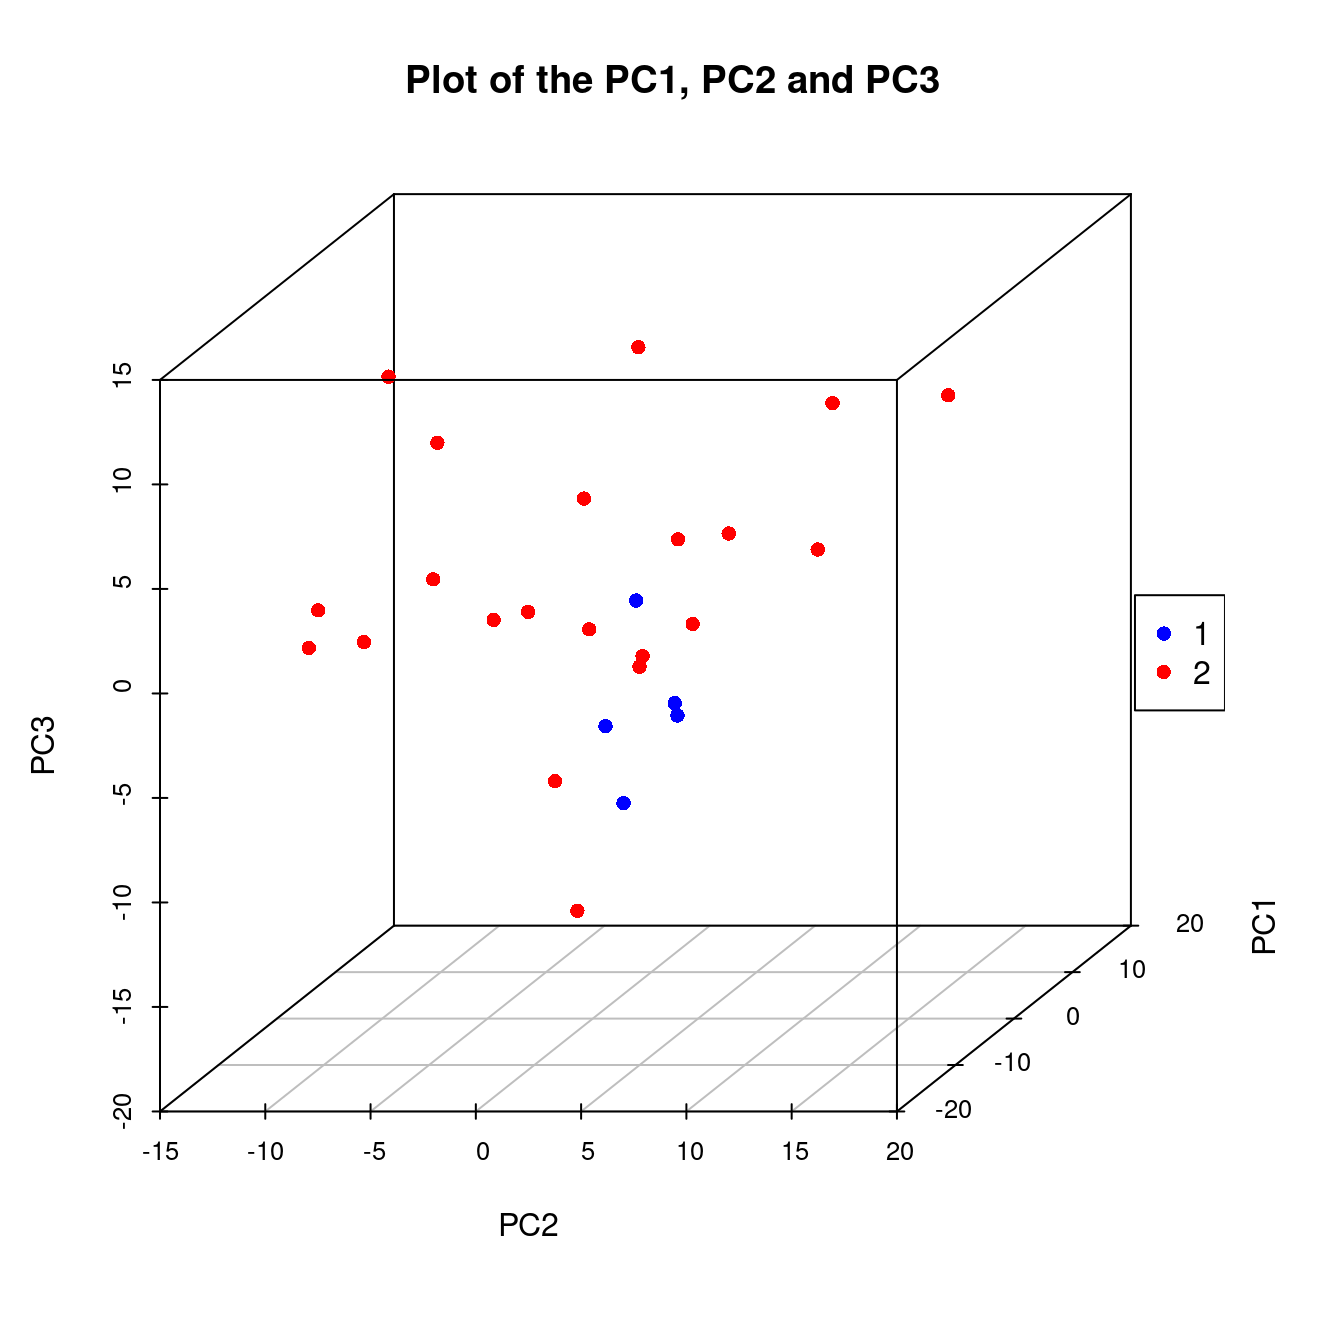
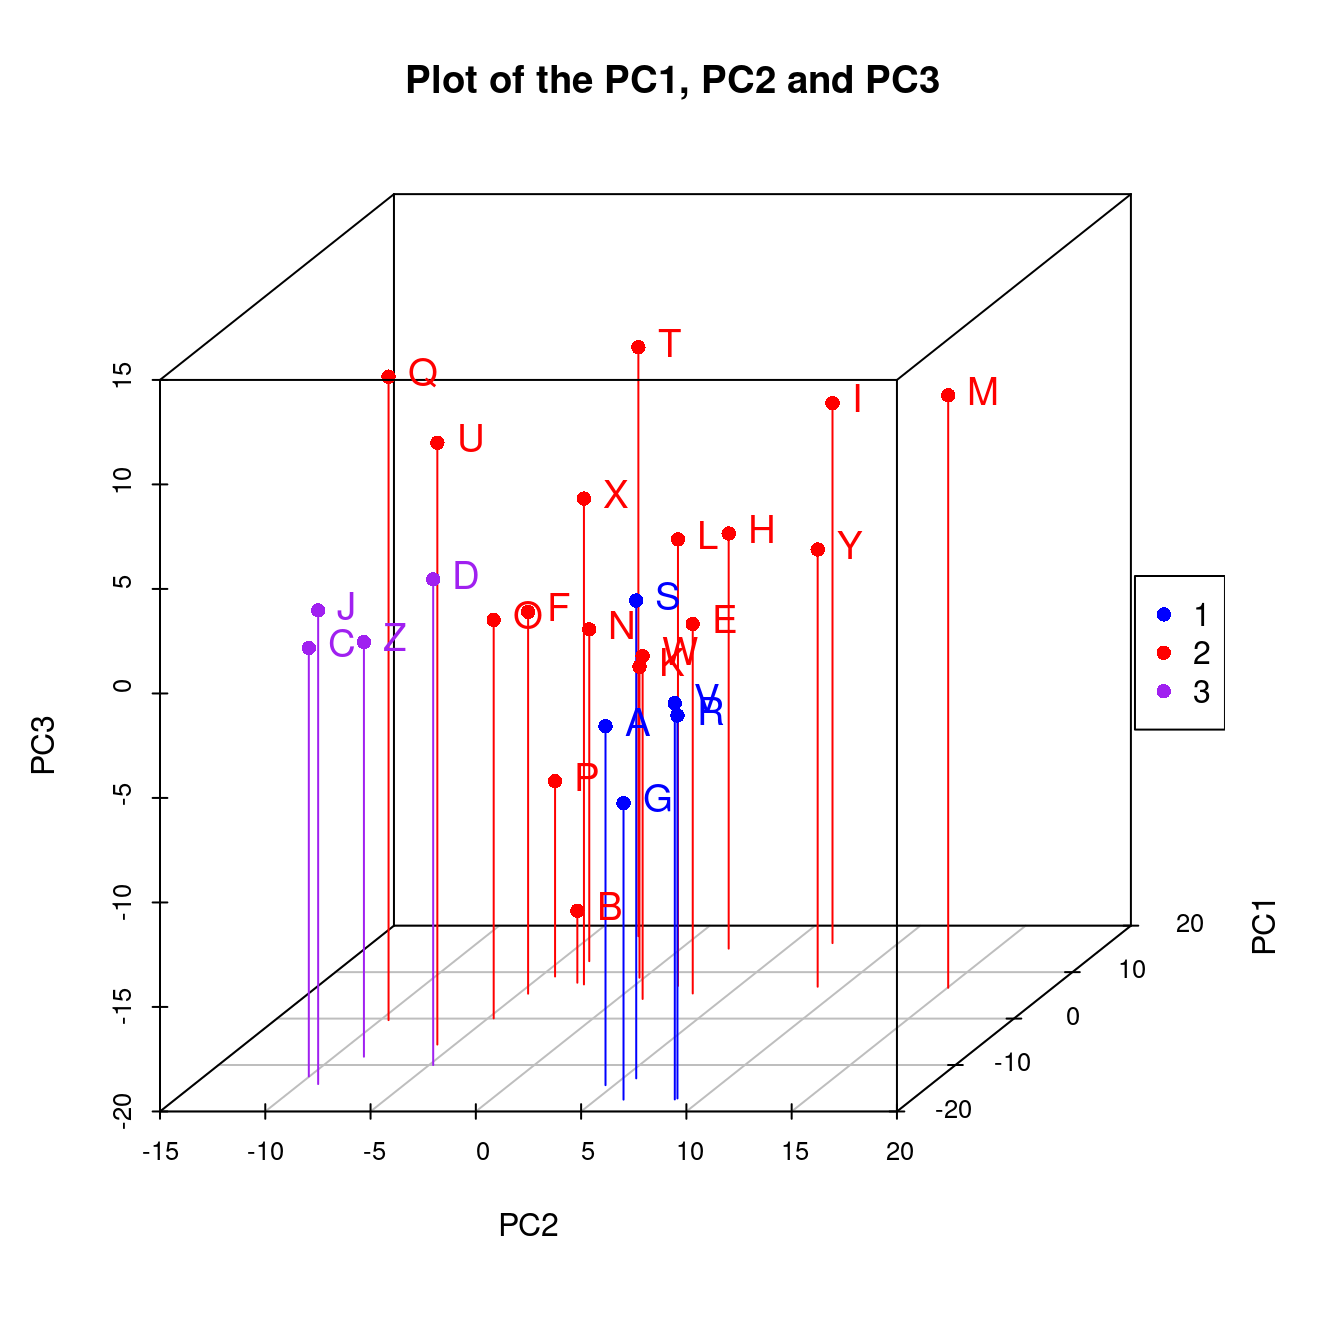
docs

diff --git a/docs/articles/es.html b/docs/articles/es.html
@@ -139,7 +139,7 @@
     
     
 <div class="sourceCode" id="cb1"><pre class="downlit sourceCode r">
-<code class="sourceCode R"><span><span class="va">pkgs</span> <span class="op">&lt;-</span> <span class="fu"><a href="https://rdrr.io/r/base/c.html" class="external-link">c</a></span><span class="op">(</span><span class="st">"Biobase"</span>, <span class="st">"arrayQualityMetrics"</span>, <span class="st">"dplyr"</span>, <span class="st">"knitr"</span>, <span class="st">"pQTLtools"</span>, <span class="st">"rgl"</span>, <span class="st">"scatterplot3d"</span><span class="op">)</span></span>
+<code class="sourceCode R"><span><span class="va">pkgs</span> <span class="op">&lt;-</span> <span class="fu"><a href="https://rdrr.io/r/base/c.html" class="external-link">c</a></span><span class="op">(</span><span class="st">"Biobase"</span>, <span class="st">"arrayQualityMetrics"</span>, <span class="st">"dplyr"</span>, <span class="st">"knitr"</span>, <span class="st">"mclust"</span>, <span class="st">"pQTLtools"</span>, <span class="st">"rgl"</span>, <span class="st">"scatterplot3d"</span><span class="op">)</span></span>
 <span><span class="kw">for</span> <span class="op">(</span><span class="va">p</span> <span class="kw">in</span> <span class="va">pkgs</span><span class="op">)</span> <span class="kw">if</span> <span class="op">(</span><span class="fu"><a href="https://rdrr.io/r/base/length.html" class="external-link">length</a></span><span class="op">(</span><span class="fu"><a href="https://rdrr.io/r/base/grep.html" class="external-link">grep</a></span><span class="op">(</span><span class="fu"><a href="https://rdrr.io/r/base/paste.html" class="external-link">paste</a></span><span class="op">(</span><span class="st">"^package:"</span>, <span class="va">p</span>, <span class="st">"$"</span>, sep<span class="op">=</span><span class="st">""</span><span class="op">)</span>, <span class="fu"><a href="https://rdrr.io/r/base/search.html" class="external-link">search</a></span><span class="op">(</span><span class="op">)</span><span class="op">)</span><span class="op">)</span> <span class="op">==</span> <span class="fl">0</span><span class="op">)</span> <span class="op">{</span></span>
 <span>    <span class="kw">if</span> <span class="op">(</span><span class="op">!</span><span class="fu"><a href="https://rdrr.io/r/base/ns-load.html" class="external-link">requireNamespace</a></span><span class="op">(</span><span class="va">p</span><span class="op">)</span><span class="op">)</span> <span class="kw"><a href="https://rdrr.io/r/base/warning.html" class="external-link">warning</a></span><span class="op">(</span><span class="fu"><a href="https://rdrr.io/r/base/paste.html" class="external-link">paste0</a></span><span class="op">(</span><span class="st">"This vignette needs package `"</span>, <span class="va">p</span>, <span class="st">"'; please install"</span><span class="op">)</span><span class="op">)</span></span>
 <span><span class="op">}</span></span>
@@ -233,27 +233,38 @@ where the expression set is indexed using feature name(s).</p>
 <div class="sourceCode" id="cb7"><pre class="downlit sourceCode r">
 <code class="sourceCode R"><span>  <span class="va">pca</span> <span class="op">&lt;-</span> <span class="fu"><a href="https://rdrr.io/r/stats/prcomp.html" class="external-link">prcomp</a></span><span class="op">(</span><span class="fu"><a href="https://rdrr.io/r/stats/na.fail.html" class="external-link">na.omit</a></span><span class="op">(</span><span class="fu"><a href="https://rdrr.io/r/base/t.html" class="external-link">t</a></span><span class="op">(</span><span class="fu">exprs</span><span class="op">(</span><span class="va">exampleSet</span><span class="op">)</span><span class="op">)</span><span class="op">)</span>, rank<span class="op">=</span><span class="fl">10</span>, scale<span class="op">=</span><span class="cn">TRUE</span><span class="op">)</span></span>
 <span>  <span class="va">pc1pc2pc3</span> <span class="op">&lt;-</span> <span class="fu"><a href="https://rdrr.io/r/base/with.html" class="external-link">with</a></span><span class="op">(</span><span class="va">pca</span>,<span class="va">x</span><span class="op">)</span><span class="op">[</span>,<span class="fl">1</span><span class="op">:</span><span class="fl">3</span><span class="op">]</span></span>
-<span>  <span class="kw"><a href="https://rdrr.io/r/base/library.html" class="external-link">library</a></span><span class="op">(</span><span class="va"><a href="https://mclust-org.github.io/mclust/" class="external-link">mclust</a></span><span class="op">)</span></span>
-<span><span class="co">#&gt; Package 'mclust' version 6.1</span></span>
-<span><span class="co">#&gt; Type 'citation("mclust")' for citing this R package in publications.</span></span>
-<span>  <span class="va">mc</span> <span class="op">&lt;-</span> <span class="fu"><a href="https://mclust-org.github.io/mclust/reference/Mclust.html" class="external-link">Mclust</a></span><span class="op">(</span><span class="va">pc1pc2pc3</span>,G<span class="op">=</span><span class="fl">2</span><span class="op">)</span></span>
+<span>  <span class="va">mc</span> <span class="op">&lt;-</span> <span class="fu">mclust</span><span class="fu">::</span><span class="fu"><a href="https://mclust-org.github.io/mclust/reference/Mclust.html" class="external-link">Mclust</a></span><span class="op">(</span><span class="va">pc1pc2pc3</span>,G<span class="op">=</span><span class="fl">3</span><span class="op">)</span></span>
 <span>  <span class="fu"><a href="https://rdrr.io/r/base/with.html" class="external-link">with</a></span><span class="op">(</span><span class="va">mc</span>, <span class="op">{</span></span>
-<span>      <span class="fu">scatterplot3d</span><span class="fu">::</span><span class="fu"><a href="https://rdrr.io/pkg/scatterplot3d/man/scatterplot3d.html" class="external-link">scatterplot3d</a></span><span class="op">(</span><span class="fu"><a href="https://rdrr.io/r/base/with.html" class="external-link">with</a></span><span class="op">(</span><span class="va">pca</span>,<span class="va">x</span><span class="op">[</span>,<span class="fu"><a href="https://rdrr.io/r/base/c.html" class="external-link">c</a></span><span class="op">(</span><span class="fl">2</span>,<span class="fl">1</span>,<span class="fl">3</span><span class="op">)</span><span class="op">]</span><span class="op">)</span>,</span>
-<span>                                   color<span class="op">=</span><span class="fu"><a href="https://rdrr.io/r/base/c.html" class="external-link">c</a></span><span class="op">(</span><span class="st">"blue"</span>,<span class="st">"red"</span><span class="op">)</span><span class="op">[</span><span class="va">classification</span><span class="op">]</span>,</span>
-<span>                                   main<span class="op">=</span><span class="st">"Plot of the PC1, PC2 and PC3"</span>, pch<span class="op">=</span><span class="fl">16</span><span class="op">)</span></span>
-<span>      <span class="fu"><a href="https://rdrr.io/r/graphics/legend.html" class="external-link">legend</a></span><span class="op">(</span><span class="st">"right"</span>, legend<span class="op">=</span><span class="fu"><a href="https://rdrr.io/r/base/levels.html" class="external-link">levels</a></span><span class="op">(</span><span class="fu"><a href="https://rdrr.io/r/base/factor.html" class="external-link">as.factor</a></span><span class="op">(</span><span class="va">classification</span><span class="op">)</span><span class="op">)</span>, col<span class="op">=</span><span class="fu"><a href="https://rdrr.io/r/base/c.html" class="external-link">c</a></span><span class="op">(</span><span class="st">"blue"</span>, <span class="st">"red"</span><span class="op">)</span>, pch<span class="op">=</span><span class="fl">16</span><span class="op">)</span></span>
-<span>      <span class="fu">rgl</span><span class="fu">::</span><span class="fu"><a href="https://dmurdoch.github.io/rgl/dev/reference/plot3d.html" class="external-link">plot3d</a></span><span class="op">(</span><span class="fu"><a href="https://rdrr.io/r/base/with.html" class="external-link">with</a></span><span class="op">(</span><span class="va">pca</span>,<span class="va">x</span><span class="op">[</span>,<span class="fu"><a href="https://rdrr.io/r/base/c.html" class="external-link">c</a></span><span class="op">(</span><span class="fl">2</span>,<span class="fl">1</span>,<span class="fl">3</span><span class="op">)</span><span class="op">]</span><span class="op">)</span>,col<span class="op">=</span><span class="va">classification</span><span class="op">)</span></span>
+<span>      <span class="va">cols</span> <span class="op">&lt;-</span> <span class="fu"><a href="https://rdrr.io/r/base/c.html" class="external-link">c</a></span><span class="op">(</span><span class="st">"blue"</span>,<span class="st">"red"</span>, <span class="st">"purple"</span><span class="op">)</span></span>
+<span>      <span class="va">s3d</span> <span class="op">&lt;-</span> <span class="fu">scatterplot3d</span><span class="fu">::</span><span class="fu"><a href="https://rdrr.io/pkg/scatterplot3d/man/scatterplot3d.html" class="external-link">scatterplot3d</a></span><span class="op">(</span><span class="fu"><a href="https://rdrr.io/r/base/with.html" class="external-link">with</a></span><span class="op">(</span><span class="va">pca</span>,<span class="va">x</span><span class="op">[</span>,<span class="fu"><a href="https://rdrr.io/r/base/c.html" class="external-link">c</a></span><span class="op">(</span><span class="fl">2</span>,<span class="fl">1</span>,<span class="fl">3</span><span class="op">)</span><span class="op">]</span><span class="op">)</span>,</span>
+<span>                                          color<span class="op">=</span><span class="va">cols</span><span class="op">[</span><span class="va">classification</span><span class="op">]</span>,</span>
+<span>                                          pch<span class="op">=</span><span class="fl">16</span>,</span>
+<span>                                          type<span class="op">=</span><span class="st">"h"</span>,</span>
+<span>                                          main<span class="op">=</span><span class="st">"Plot of the PC1, PC2 and PC3"</span><span class="op">)</span></span>
+<span>      <span class="va">s3d.coords</span> <span class="op">&lt;-</span> <span class="va">s3d</span><span class="op">$</span><span class="fu">xyz.convert</span><span class="op">(</span><span class="fu"><a href="https://rdrr.io/r/base/with.html" class="external-link">with</a></span><span class="op">(</span><span class="va">pca</span>,<span class="va">x</span><span class="op">[</span>,<span class="fu"><a href="https://rdrr.io/r/base/c.html" class="external-link">c</a></span><span class="op">(</span><span class="fl">2</span>,<span class="fl">1</span>,<span class="fl">3</span><span class="op">)</span><span class="op">]</span><span class="op">)</span><span class="op">)</span></span>
+<span>      <span class="fu"><a href="https://rdrr.io/r/graphics/text.html" class="external-link">text</a></span><span class="op">(</span><span class="va">s3d.coords</span><span class="op">$</span><span class="va">x</span>, </span>
+<span>           <span class="va">s3d.coords</span><span class="op">$</span><span class="va">y</span>,   </span>
+<span>           cex <span class="op">=</span> <span class="fl">1.2</span>,</span>
+<span>           col <span class="op">=</span> <span class="va">cols</span><span class="op">[</span><span class="va">classification</span><span class="op">]</span>,</span>
+<span>           labels <span class="op">=</span> <span class="fu"><a href="https://rdrr.io/r/base/row.names.html" class="external-link">row.names</a></span><span class="op">(</span><span class="va">pc1pc2pc3</span><span class="op">)</span>,</span>
+<span>           pos <span class="op">=</span> <span class="fl">4</span><span class="op">)</span></span>
+<span>      <span class="fu"><a href="https://rdrr.io/r/graphics/legend.html" class="external-link">legend</a></span><span class="op">(</span><span class="st">"right"</span>, legend<span class="op">=</span><span class="fu"><a href="https://rdrr.io/r/base/levels.html" class="external-link">levels</a></span><span class="op">(</span><span class="fu"><a href="https://rdrr.io/r/base/factor.html" class="external-link">as.factor</a></span><span class="op">(</span><span class="va">classification</span><span class="op">)</span><span class="op">)</span>, col<span class="op">=</span><span class="va">cols</span><span class="op">[</span><span class="va">classification</span><span class="op">]</span>, pch<span class="op">=</span><span class="fl">16</span><span class="op">)</span></span>
+<span>      <span class="fu">rgl</span><span class="fu">::</span><span class="fu"><a href="https://dmurdoch.github.io/rgl/dev/reference/plot3d.html" class="external-link">plot3d</a></span><span class="op">(</span><span class="fu"><a href="https://rdrr.io/r/base/with.html" class="external-link">with</a></span><span class="op">(</span><span class="va">pca</span>,<span class="va">x</span><span class="op">[</span>,<span class="fu"><a href="https://rdrr.io/r/base/c.html" class="external-link">c</a></span><span class="op">(</span><span class="fl">2</span>,<span class="fl">1</span>,<span class="fl">3</span><span class="op">)</span><span class="op">]</span><span class="op">)</span>,cex<span class="op">=</span><span class="fl">1.2</span>,col<span class="op">=</span><span class="va">cols</span><span class="op">[</span><span class="va">classification</span><span class="op">]</span>,type<span class="op">=</span><span class="st">"h"</span><span class="op">)</span></span>
 <span>  <span class="op">}</span><span class="op">)</span></span></code></pre></div>
-<p><img src="es/mcpca-1.png" width="672" style="display:block; margin: auto">
-# Data transformation</p>
+<p><img src="es/mcpca-1.png" width="672" style="display:block; margin: auto"></p>
+</div>
+<div class="section level2" number="5">
+<h2 id="data-transformation">
+<span class="header-section-number">5</span> Data transformation<a class="anchor" aria-label="anchor" href="#data-transformation"></a>
+</h2>
 <p>Suppose we wish use log2 for those greater than zero but set those negative values to be missing.</p>
 <div class="sourceCode" id="cb8"><pre class="downlit sourceCode r">
 <code class="sourceCode R"><span><span class="va">log2.na</span> <span class="op">&lt;-</span> <span class="kw">function</span><span class="op">(</span><span class="va">x</span><span class="op">)</span> <span class="fu"><a href="https://rdrr.io/r/base/Log.html" class="external-link">log2</a></span><span class="op">(</span><span class="fu"><a href="https://rdrr.io/r/base/ifelse.html" class="external-link">ifelse</a></span><span class="op">(</span><span class="va">x</span><span class="op">&gt;</span><span class="fl">0</span>, <span class="va">x</span>, <span class="cn">NA</span><span class="op">)</span><span class="op">)</span></span>
 <span><span class="fu">exprs</span><span class="op">(</span><span class="va">exampleSet</span><span class="op">)</span> <span class="op">&lt;-</span> <span class="fu">log2.na</span><span class="op">(</span><span class="fu">exprs</span><span class="op">(</span><span class="va">exampleSet</span><span class="op">)</span><span class="op">)</span></span></code></pre></div>
 </div>
-<div class="section level2" number="5">
+<div class="section level2" number="6">
 <h2 id="limit-of-detection-lod">
-<span class="header-section-number">5</span> Limit of detection (LOD)<a class="anchor" aria-label="anchor" href="#limit-of-detection-lod"></a>
+<span class="header-section-number">6</span> Limit of detection (LOD)<a class="anchor" aria-label="anchor" href="#limit-of-detection-lod"></a>
 </h2>
 <p>We generate a <code>lod.max</code> ~ U[0,1] variable to experiment</p>
 <div class="sourceCode" id="cb9"><pre class="downlit sourceCode r">
@@ -649,7 +660,7 @@ where the expression set is indexed using feature name(s).</p>
 <span><span class="fu">kable</span><span class="op">(</span><span class="va">annot</span>,caption<span class="op">=</span><span class="st">"Summary statistics"</span>,row.names<span class="op">=</span><span class="cn">FALSE</span><span class="op">)</span></span></code></pre></div>
 <table class="table">
 <caption>
-<span id="tab:lod">Table 5.1: </span>Summary statistics</caption>
+<span id="tab:lod">Table 6.1: </span>Summary statistics</caption>
 <colgroup>
 <col width="10%">
 <col width="5%">
@@ -1956,15 +1967,15 @@ where the expression set is indexed using feature name(s).</p>
 </tbody>
 </table>
 </div>
-<div class="section level2" number="6">
+<div class="section level2" number="7">
 <h2 id="combination-of-proteins-and-other-variables">
-<span class="header-section-number">6</span> Combination of proteins and other variables<a class="anchor" aria-label="anchor" href="#combination-of-proteins-and-other-variables"></a>
+<span class="header-section-number">7</span> Combination of proteins and other variables<a class="anchor" aria-label="anchor" href="#combination-of-proteins-and-other-variables"></a>
 </h2>
 <p>This is available by design.</p>
 </div>
-<div class="section level2" number="7">
+<div class="section level2" number="8">
 <h2 id="maendtoend">
-<span class="header-section-number">7</span> maEndtoEnd<a class="anchor" aria-label="anchor" href="#maendtoend"></a>
+<span class="header-section-number">8</span> maEndtoEnd<a class="anchor" aria-label="anchor" href="#maendtoend"></a>
 </h2>
 <p>Web: <a href="https://bioconductor.org/packages/release/workflows/html/maEndToEnd.html" class="external-link">https://bioconductor.org/packages/release/workflows/html/maEndToEnd.html</a>.</p>
 <p>Examples can be found on PCA, heatmap, normalisation, linear models, and enrichment analysis from this Bioconductor package.</p>
